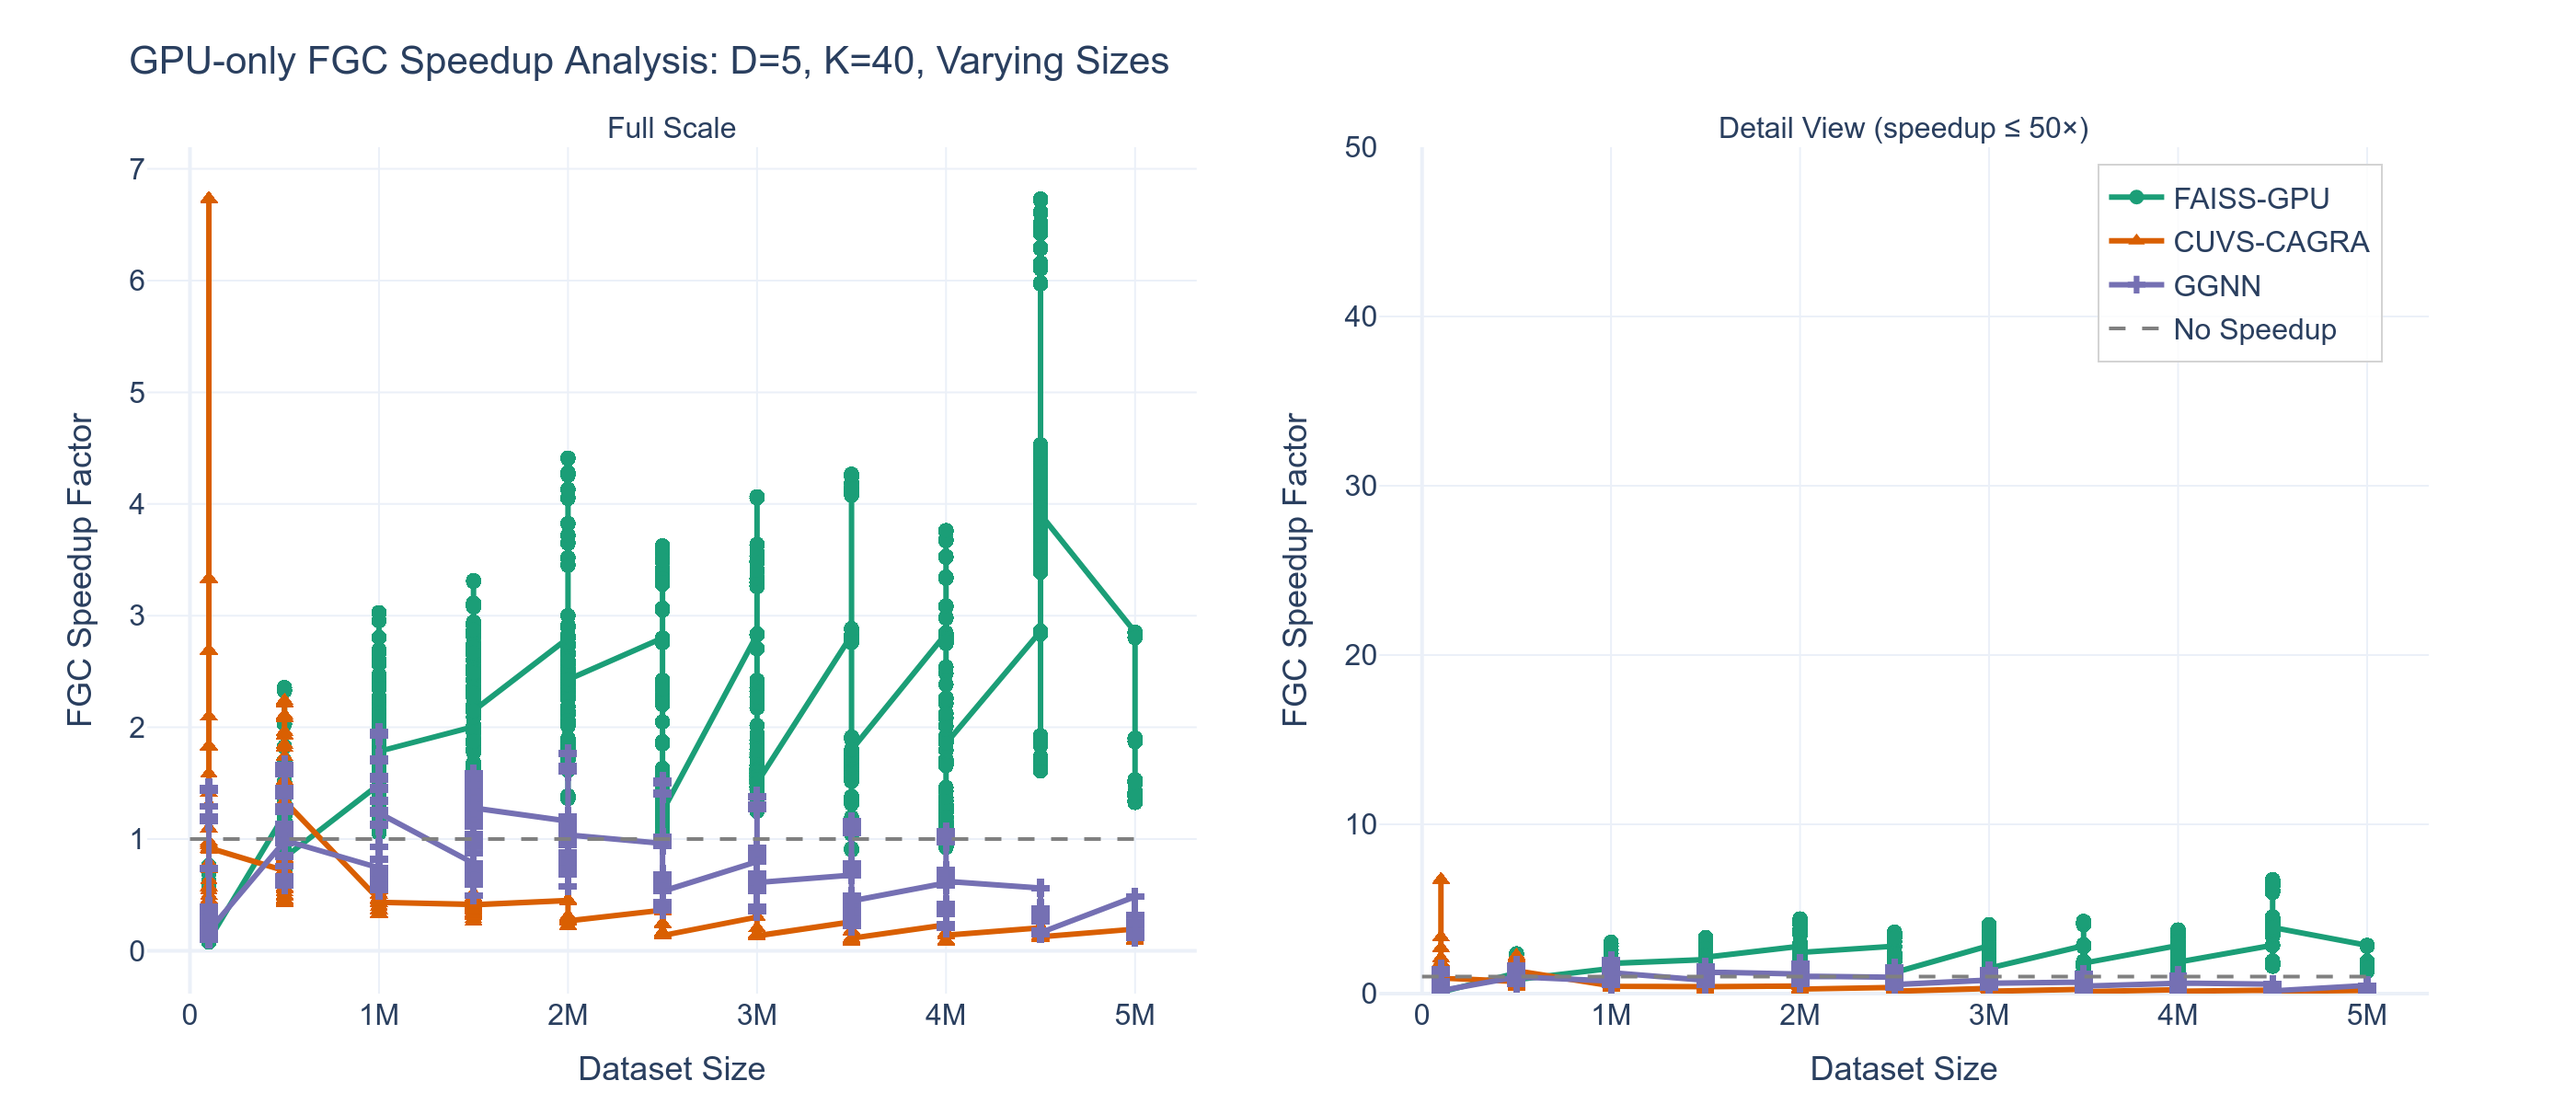
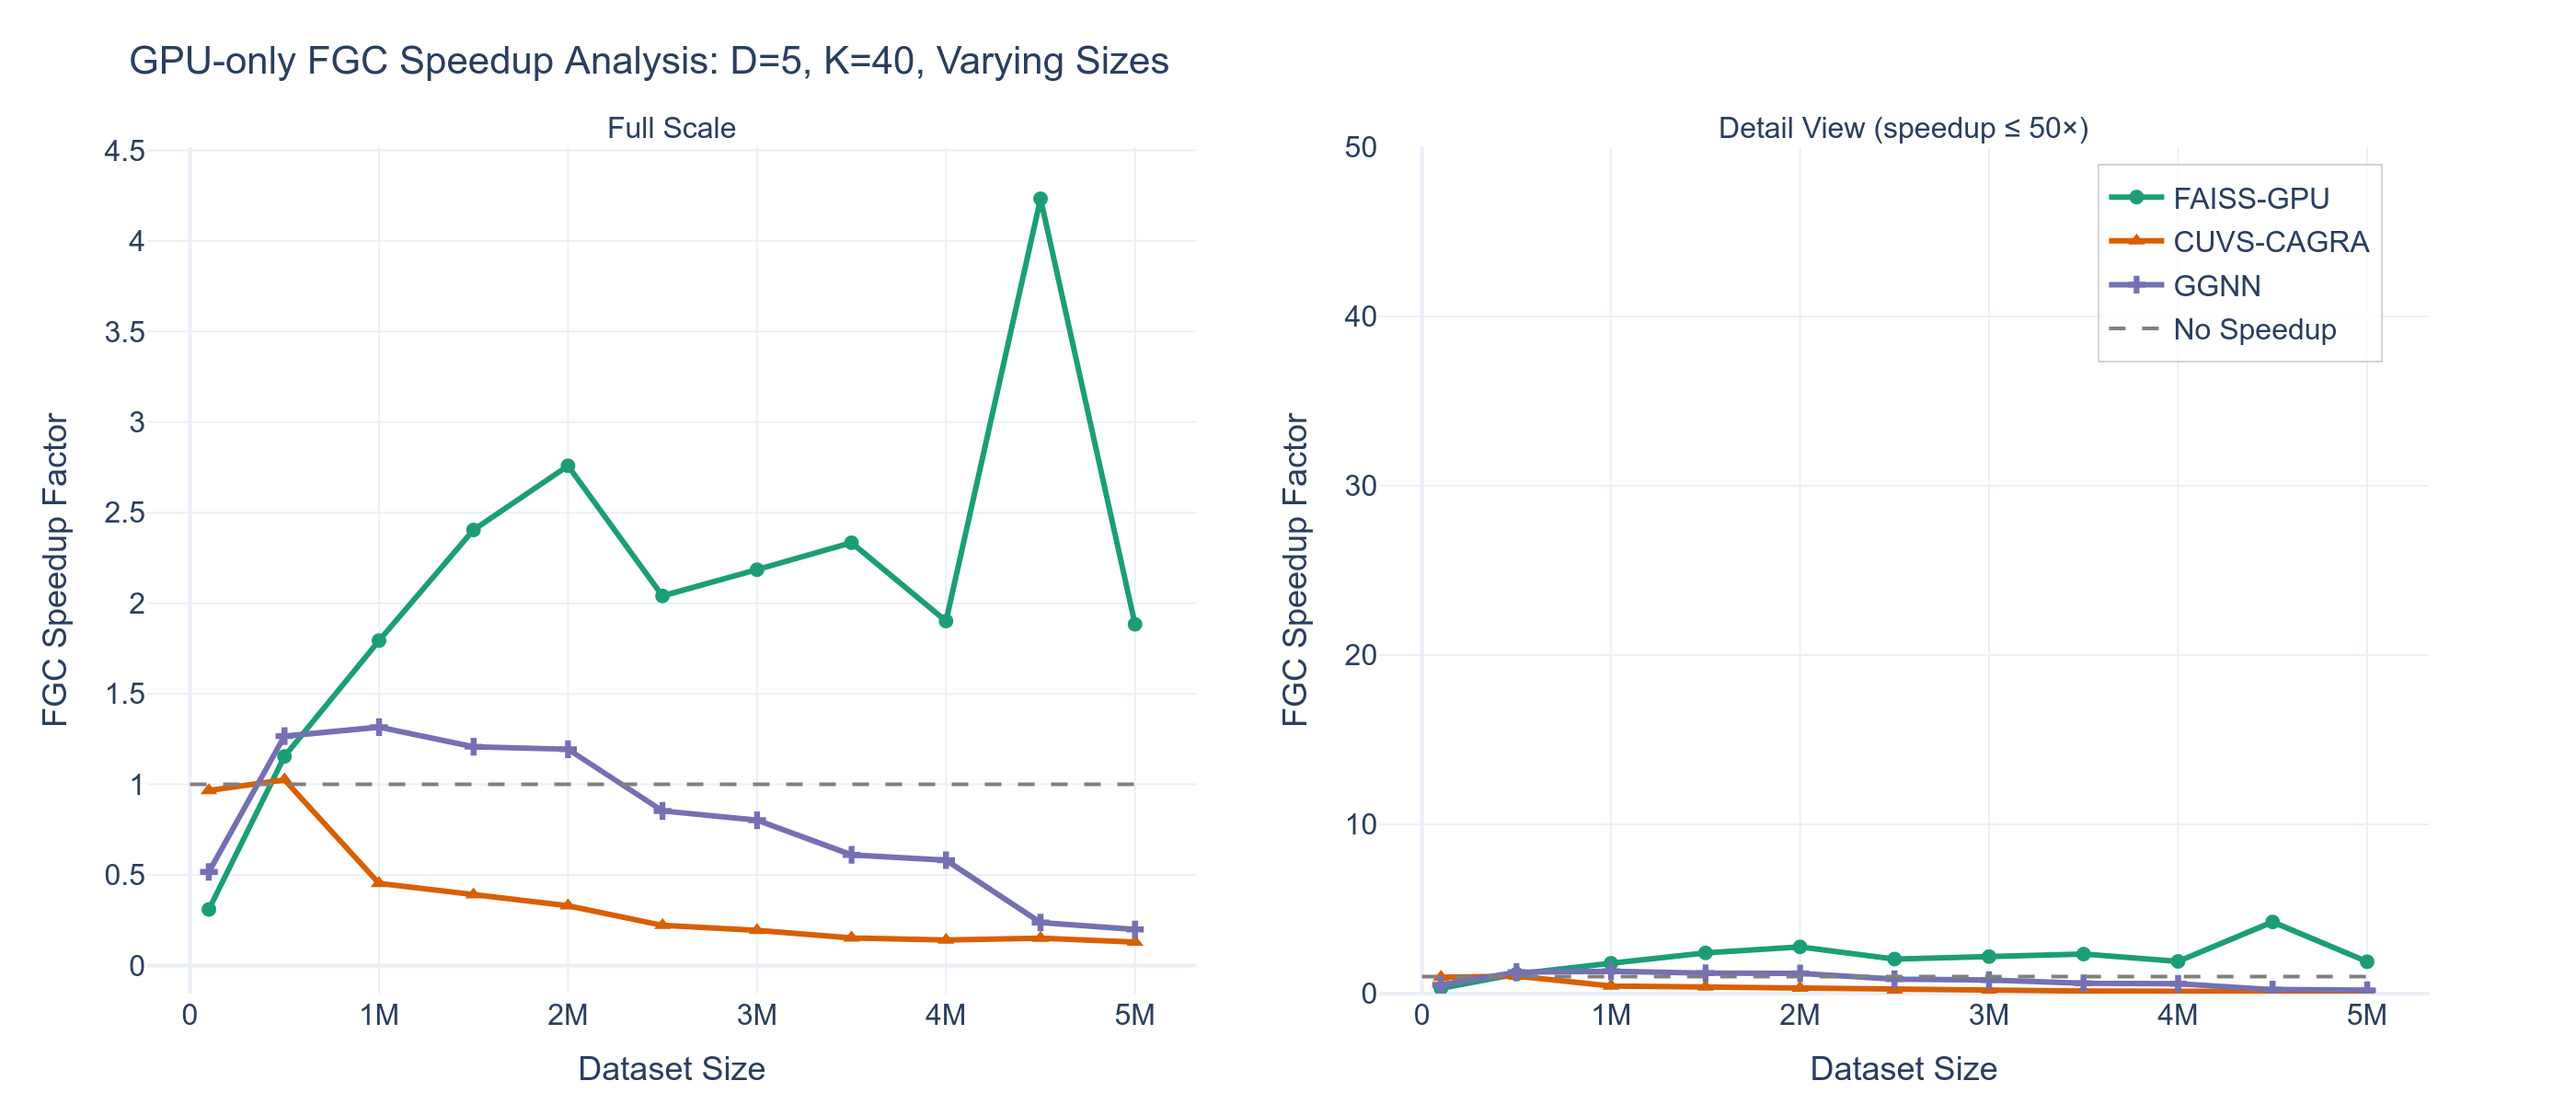
fix speedup scatter columns and legend overlap across all plots
Speedup plots: the outer-join merge created a cartesian product of reps
(10 FGC x 10 competitor = 100 rows per config), causing dense vertical columns
of points at each x value. Fix: aggregate to mean speedup per x-value before
plotting, producing clean single lines per algorithm.

Legend overlap: recall_vs_dimension and recall_controlled_comparison had the
horizontal legend at y=1.08 colliding with the two-line title+subtitle above
the plot. Moved legends below the plot (y=-0.15 to -0.18) with matching
bottom margin increase.

diff --git a/process_gpu_csvs.py b/process_gpu_csvs.py
@@ -201,12 +201,20 @@ def plot_fgc_speedup_analysis(
         if valid_data.empty:
             continue
 
-        speedup = valid_data[time_col] / valid_data[FGC_TIME_COLUMN]
+        # Aggregate to mean speedup per x value (avoids cartesian-product scatter
+        # from the outer-join merge producing many rows per config)
+        valid_data["speedup"] = valid_data[time_col] / valid_data[FGC_TIME_COLUMN]
+        plot_data = (
+            valid_data.groupby(x_col)["speedup"]
+            .mean()
+            .reset_index()
+            .sort_values(x_col)
+        )
 
         fig.add_trace(
             go.Scatter(
-                x=valid_data[x_col],
-                y=speedup,
+                x=plot_data[x_col],
+                y=plot_data["speedup"],
                 mode="lines+markers",
                 name=alg_info["display_name"],
                 line=dict(color=alg_info["color"], width=3),
@@ -735,9 +743,9 @@ def plot_recall_controlled_speed(
         font=dict(family="Arial", size=16),
         plot_bgcolor="white",
         paper_bgcolor="white",
-        legend=dict(orientation="h", yanchor="bottom", y=1.08, xanchor="right", x=1,
+        legend=dict(orientation="h", yanchor="top", y=-0.15, xanchor="center", x=0.5,
                     bgcolor="rgba(255,255,255,0.85)", bordercolor="lightgray", borderwidth=1),
-        margin=dict(t=110, b=70, l=80, r=40),
+        margin=dict(t=110, b=110, l=80, r=40),
     )
     return fig
 
@@ -1037,9 +1045,9 @@ def plot_recall_vs_dimension(
         font=dict(family="Arial", size=16),
         plot_bgcolor="white",
         paper_bgcolor="white",
-        legend=dict(orientation="h", yanchor="bottom", y=1.08, xanchor="right", x=1,
+        legend=dict(orientation="h", yanchor="top", y=-0.18, xanchor="center", x=0.5,
                     bgcolor="rgba(255,255,255,0.85)", bordercolor="lightgray", borderwidth=1),
-        margin=dict(t=110, b=70, l=80, r=40),
+        margin=dict(t=100, b=120, l=80, r=40),
     )
     return fig
 
